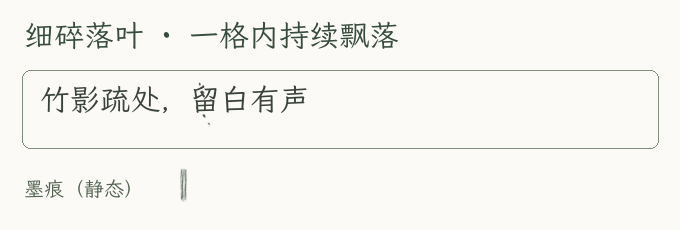
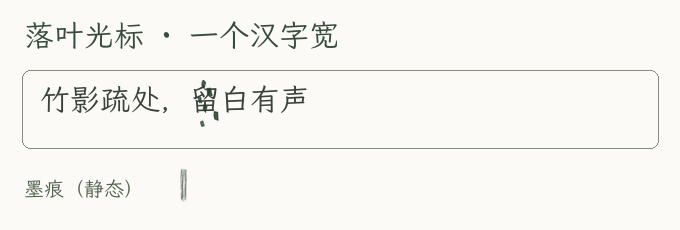
Enlarge ink leaves and widen cursor to one Chinese glyph

diff --git a/integrations/pretty-tui-cursor-particles/ink-cursor-images.ts b/integrations/pretty-tui-cursor-particles/ink-cursor-images.ts
@@ -14,17 +14,19 @@ export function nativeFrameCursor(data: string): CursorPosition | undefined {
   return match ? { row: Number(match[1]), col: Number(match[2]) } : undefined;
 }
 
-/** A transparent one-cell cursor overlay. No changes to text or cursor markers. */
+/** Transparent cursor overlay, up to one Chinese glyph wide. */
 export class InkCursorImagePainter {
   private cache = new Map<string, { id: number; uploaded: boolean }>();
   private placed?: number;
   private style?: string;
   private started = 0;
+  private columns = Number.POSITIVE_INFINITY;
   position?: CursorPosition;
   constructor(private now: () => number = Date.now) {}
   get visible() { return this.placed !== undefined; }
   get animated() { return this.style === "leaf" && !!this.position; }
-  paint(position: CursorPosition | undefined, style: unknown, reset = false): string {
+  paint(position: CursorPosition | undefined, style: unknown, reset = false, columns = Number.POSITIVE_INFINITY): string {
+    this.columns = columns;
     let out = "";
     if (reset) {
       for (const entry of this.cache.values()) entry.uploaded = false;
@@ -49,9 +51,10 @@ export class InkCursorImagePainter {
       entry.uploaded = true;
     }
     this.placed = entry.id;
-    return out + `${ESC}[${position.row};${position.col}H` + kitty(`a=p,i=${entry.id},p=1,c=1,r=1,z=2,C=1,q=2`);
+    const width = style === "ink" ? 1 : Math.max(1, Math.min(2, columns - position.col + 1));
+    return out + `${ESC}[${position.row};${position.col}H` + kitty(`a=p,i=${entry.id},p=1,c=${width},r=1,z=2,C=1,q=2`);
   }
-  tick() { return this.paint(this.position, this.style); }
+  tick() { return this.paint(this.position, this.style, false, this.columns); }
   dispose() {
     const out = [...this.cache.values()].map(entry => kitty(`a=d,d=I,i=${entry.id},q=2`)).join("");
     this.cache.clear();this.position = undefined;this.placed = undefined;this.style = undefined;return out;

diff --git a/integrations/pretty-tui-cursor-particles/rounded-bubbles.ts b/integrations/pretty-tui-cursor-particles/rounded-bubbles.ts
@@ -193,7 +193,7 @@ export function installRoundedBubbles(prototype: any, onError: (error: unknown) 
         const images = painter.cursor.tick();
         const position = painter.cursor.position;
         if (position) {
-          // Only update the single cursor cell; never rerender the transcript.
+          // Only update the cursor overlay; never rerender the transcript.
           const tail = `\x1b[${position.row};${position.col}H\x1b[?25l${END_SYNC}`;
           screen.terminal.write(insertFrameImages(`\x1b[?2026h${tail}`, images));
         }
@@ -238,7 +238,7 @@ export function installRoundedBubbles(prototype: any, onError: (error: unknown) 
       const cell = getCellDimensions();
       const reset = /\x1b_G[^;]*a=d[^;]*d=A(?:,|;)/.test(data);
       const images = painter.paint(this.previousScreen ?? [], terminal.columns, cell, reset, hidden);
-      const cursorImages = painter.cursor.paint(hidden ? undefined : nativeFrameCursor(data), getCursorStyle(), reset);
+      const cursorImages = painter.cursor.paint(hidden ? undefined : nativeFrameCursor(data), getCursorStyle(), reset, terminal.columns);
       data = insertFrameImages(data, images + cursorImages, painter.cursor.visible);
       animate(this, painter);
     } catch (error) {

diff --git a/scripts/make_cursor_art.py b/scripts/make_cursor_art.py
@@ -5,10 +5,11 @@ from PIL import Image,ImageDraw,ImageFont
 R=Path(__file__).resolve().parents[1]
 DEST=Path('/Users/jiezhou/Desktop/公司其他/pi-extension/extensions/pretty-tui/art')
 DEST.mkdir(exist_ok=True,parents=True)
-S=5;W,H=32,64
+S=5;W,H=64,64
 
 def art(phase=0,stroke=False):
- im=Image.new('RGBA',(W*S,H*S));d=ImageDraw.Draw(im)
+ canvasWidth=32 if stroke else W
+ im=Image.new('RGBA',(canvasWidth*S,H*S));d=ImageDraw.Draw(im)
  rng=random.Random(417)
  if stroke:
   # Narrow dry-brush stroke, heavier at the top, with split bristle endings.
@@ -17,27 +18,27 @@ def art(phase=0,stroke=False):
    points=[((x+math.sin(t*.13+k)*.55)*S,(y+t)*S) for t in range(42-int(k*.25))]
    d.line(points,fill=(55,72,58,int(150+rng.random()*80)),width=max(1,int(rng.uniform(.22,.8)*S)))
  else:
-  # Seven tiny leaves at different heights, drifting down inside one cell.
+  # Seven distinct small leaves at different heights, drifting down inside one cell.
   # Fade at both edges so looping never produces a visible jump.
   for k in range(7):
    t=(phase/24+k/7)%1
    y=-5+t*74
-   x=5+(k*7%22)+2.1*math.sin(t*math.tau+k*1.7)
+   x=max(8,min(56,8+(k*19%48)+4.5*math.sin(t*math.tau+k*1.7)))
    fade=min(1,max(0,(y+2)/7),max(0,(66-y)/8))
    if not fade:continue
-   width=2.0+(k%3)*.65;height=4.2+(k%3)*.9
+   width=9.0+(k%3)*1.8;height=12.0+(k%3)*2.2
    angle=math.radians(-35+25*math.sin(t*math.tau+k))
    shape=[]
    for u,v in [(0,-height/2),(width/2,-height*.1),(width*.22,height*.22),(0,height/2),(-width*.48,height*.08),(-width*.35,-height*.23)]:
     shape.append(((x+u*math.cos(angle)-v*math.sin(angle))*S,(y+u*math.sin(angle)+v*math.cos(angle))*S))
-   d.polygon(shape,fill=(52,74,54,round((190+(k%3)*18)*fade)))
+   d.polygon(shape,fill=(43,65,47,round((225+(k%3)*10)*fade)))
  # Irregular paper absorption: keep the shape, soften pigment density.
  pixels=im.load()
  for y in range(H*S):
-  for x in range(W*S):
+  for x in range(canvasWidth*S):
    red,green,blue,alpha=pixels[x,y]
    if alpha:pixels[x,y]=(red,green,blue,round(alpha*rng.uniform(.85,1)))
- return im.resize((W,H),Image.Resampling.LANCZOS)
+ return im.resize((canvasWidth,H),Image.Resampling.LANCZOS)
 frames=[art(i) for i in range(24)]
 for i,im in enumerate(frames):im.save(DEST/f'cursor-leaf-{i:02}.png')
 art(stroke=True).save(DEST/'cursor-ink.png')
@@ -46,10 +47,10 @@ small=ImageFont.truetype(str(R/'mods/ink-chrome/fonts/LXGWWenKaiMono-Regular.ttf
 preview=[]
 for leaf in frames:
  canvas=Image.new('RGB',(680,230),'#fbfaf7');d=ImageDraw.Draw(canvas)
- d.text((24,18),'细碎落叶 · 一格内持续飘落',font=font,fill='#384c3c')
+ d.text((24,18),'落叶光标 · 一个汉字宽',font=font,fill='#384c3c')
  d.rounded_rectangle((22,70,658,148),radius=8,outline='#81907e',width=1)
  d.text((40,82),'竹影疏处，留白有声',font=font,fill='#3a433b')
- canvas.paste(leaf.resize((24,48),Image.Resampling.LANCZOS),(190,80),leaf.resize((24,48),Image.Resampling.LANCZOS))
+ canvas.paste(leaf.resize((30,48),Image.Resampling.LANCZOS),(190,80),leaf.resize((30,48),Image.Resampling.LANCZOS))
  d.text((24,177),'墨痕（静态）',font=small,fill='#52624f')
  ink=art(stroke=True).resize((24,48));canvas.paste(ink,(175,162),ink)
  preview.append(canvas)

diff --git a/scripts/restore_ui_checkpoint.py b/scripts/restore_ui_checkpoint.py
@@ -9,7 +9,7 @@ import argparse, datetime, hashlib, json, shutil, tempfile, zipfile
 def main():
     parser=argparse.ArgumentParser(description=__doc__)
     parser.add_argument('--archive',type=Path,required=True)
-    parser.add_argument('--version',choices=['ink-study-v18','ink-study-v17','ink-study-v18-cursor','ink-cursor-particles-v1'])
+    parser.add_argument('--version',choices=['ink-study-v18','ink-study-v17','ink-study-v18-cursor','ink-cursor-particles-v1','ink-cursor-particles-v2'])
     parser.add_argument('--home',type=Path,default=Path.home()/'.config/herdr-app')
     parser.add_argument('--extension-dir',type=Path,default=Path.home()/'.pi/agent/extensions/pretty-tui')
     parser.add_argument('--apply',action='store_true')

diff --git a/CURSOR-PARTICLES.md b/CURSOR-PARTICLES.md
@@ -1,12 +1,12 @@
-# 单格微型落叶光标
+# 一个汉字宽的落叶光标
 
-版本：`ink-cursor-particles-v1`。
+版本：`ink-cursor-particles-v2`。
 
-默认光标为七片极小的墨绿叶子，在一个字符格里错落地随风飘下、无限循环。24 帧、每帧 100ms，透明背景；叶子像素覆盖率约 2.7%–3.3%，可以叠在现有文字上。只重绘光标图层，不刷新整段对话，也不改输入文字和列宽。
+默认光标为七片小巧的墨绿叶子，在一个汉字宽（两个终端半角列）内错落地随风飘下、无限循环。24 帧、每帧 100ms，透明背景；叶子像素覆盖率约 11.6%–14.1%，可以叠在现有文字上。只重绘光标图层，不刷新整段对话，也不改输入文字和列宽。
 
 动画每一帧都在图像命令之后重新写回 Pi 的文字光标坐标。原生硬件开关保留开启来取消反色方块，实际硬件竖线隐藏，由叶群代替；原生文本位置和 CURSOR_MARKER 保留。图层会随焦点标记、覆盖层、终端停止和重载隐藏/清理。
 
-设计预览：`/Users/jiezhou/herdr-ink-study/ink-cursor-leaf-preview.gif`。这是设计示意，叶群叠在“留”字上，并非原生窗口截图。18 项光标、图片清理、动效生命周期、footer 和输入框检查通过；另用独立后台 Pi 验证位置与重载，不切换工作窗口。中文输入法的实际候选窗仍需在当前会话加载后使用确认。
+设计预览：`/Users/jiezhou/herdr-ink-study/ink-cursor-leaf-v2-preview.gif`。这是设计示意，叶群叠在“留”字上，并非原生窗口截图。19 项光标、图片清理、动效生命周期、footer 和输入框检查通过；初版曾用独立后台 Pi 验证位置与重载。本版修改图像尺寸与叶片大小，增加了右边缘边界检查，定位仍沿用原生坐标。中文输入法的实际候选窗仍需在当前会话加载后使用确认。
 
 当前会话在回复结束后输入 `/reload` 加载。配置文件是 `/Users/jiezhou/.pi/agent/pretty-tui.json`：
 
@@ -17,8 +17,10 @@
 
 本次备份仅覆盖 pretty-tui，保留当前 Herdr 布局和其他正在修改的界面文件。扩展完整快照在 `/Users/jiezhou/herdr-ink-study/integrations/pretty-tui-cursor-particles/`；原有 v17、v18 和光标 fix2 标签与恢复包继续保留。
 
-恢复包：`/Users/jiezhou/herdr-ink-study/.checkpoints/ink-cursor-particles-v1.zip`。检查后加 `--apply` 恢复扩展，覆盖前自动备份：
+恢复包：`/Users/jiezhou/herdr-ink-study/.checkpoints/ink-cursor-particles-v2.zip`。检查后加 `--apply` 恢复扩展，覆盖前自动备份：
 
 ```bash
-python3 /Users/jiezhou/herdr-ink-study/scripts/restore_ui_checkpoint.py --archive /Users/jiezhou/herdr-ink-study/.checkpoints/ink-cursor-particles-v1.zip
+python3 /Users/jiezhou/herdr-ink-study/scripts/restore_ui_checkpoint.py --archive /Users/jiezhou/herdr-ink-study/.checkpoints/ink-cursor-particles-v2.zip
 ```
+
+v2 根据实际截图扩大范围：原先一个半角格只有约半个汉字宽，现为一个汉字宽；叶片加大并加深墨色，轨迹横向铺开。最右一列自动缩到剩余宽度，定位不向左偏移。
